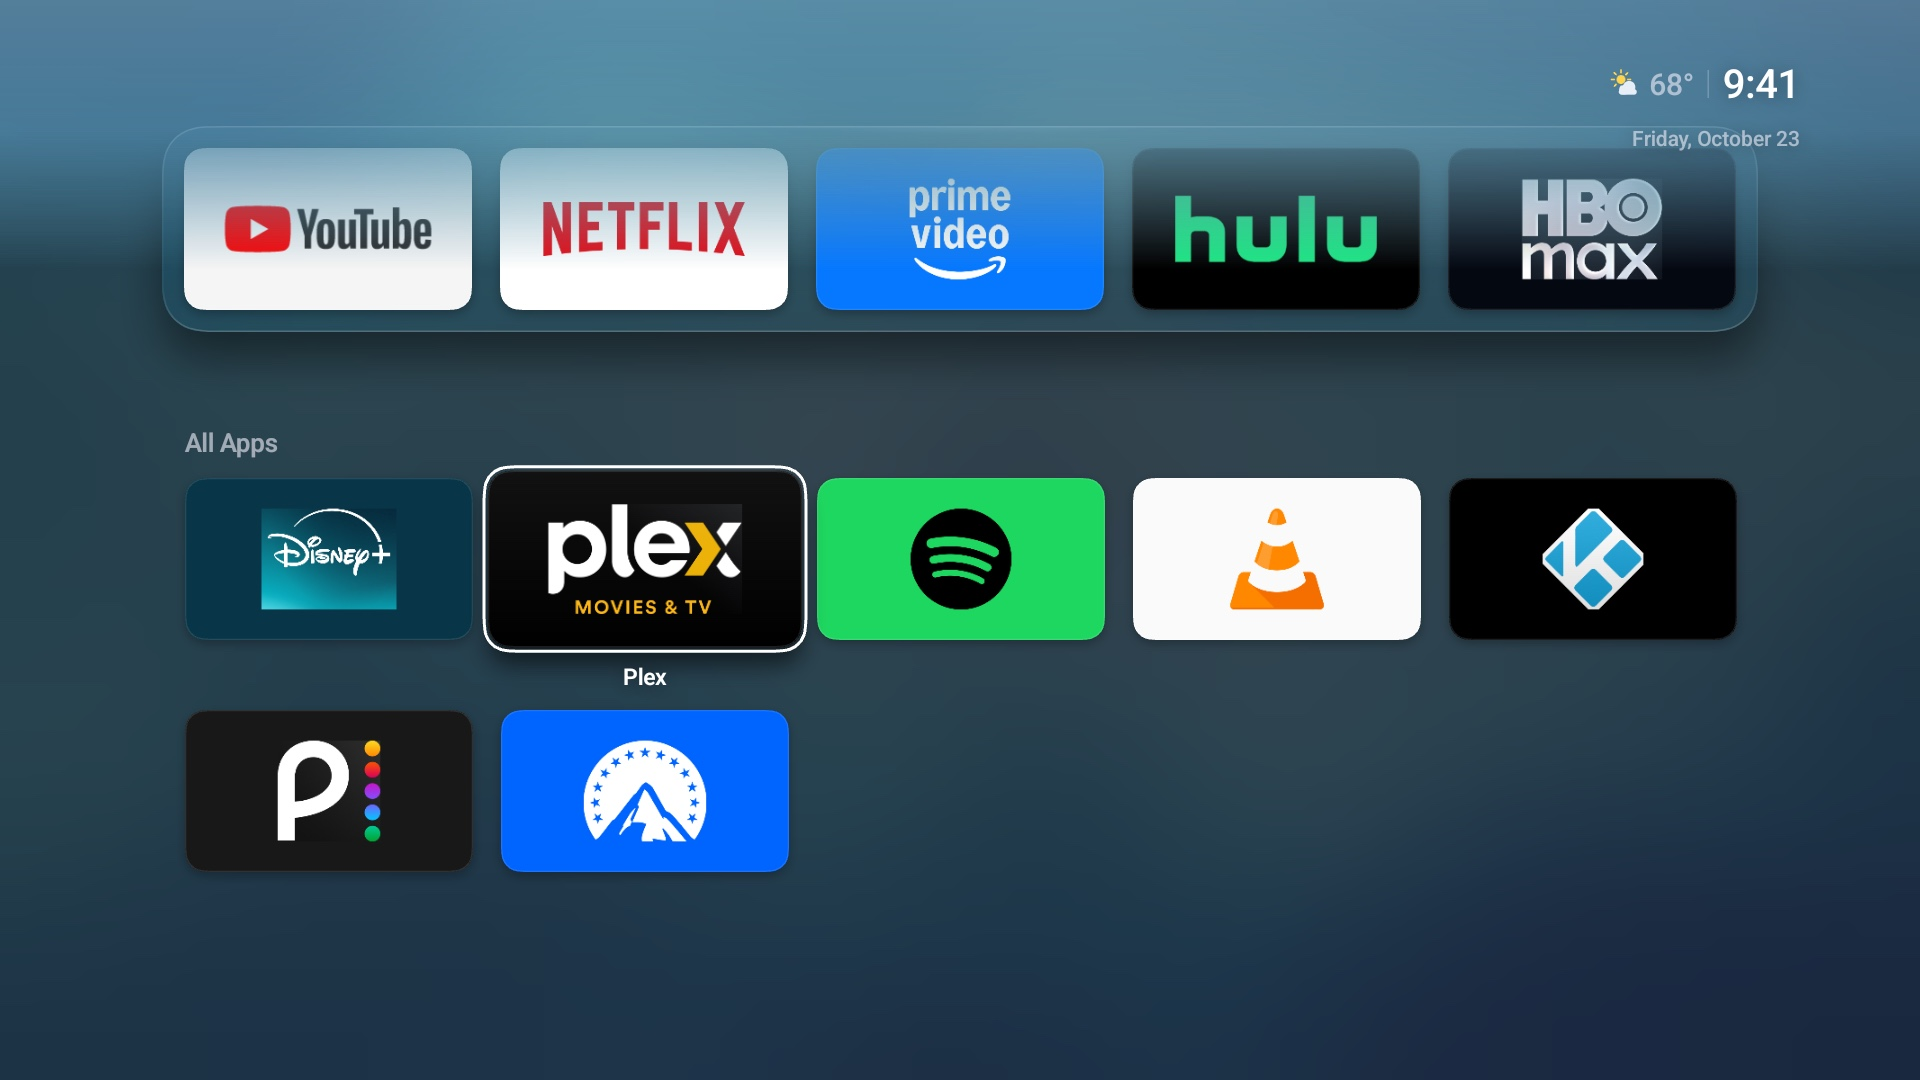
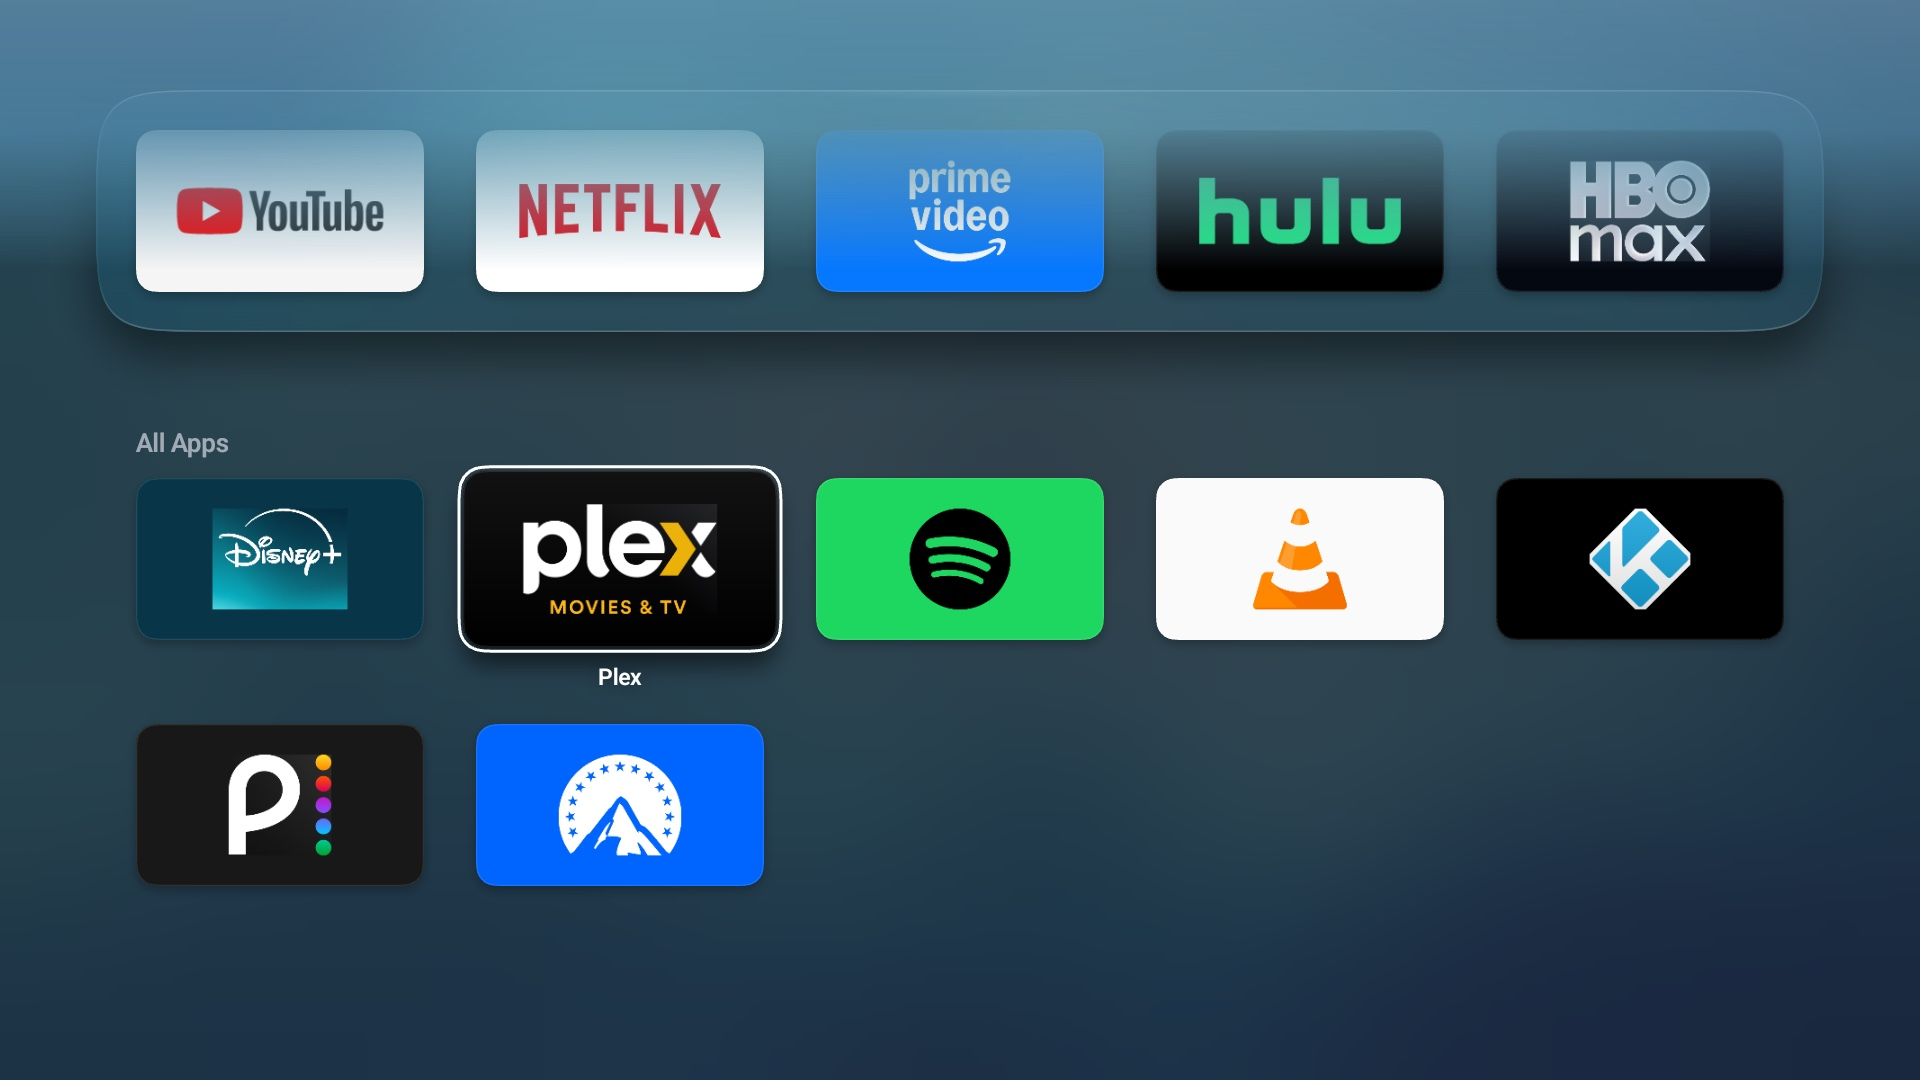
Refresh screenshots and design spec for the wider dock
Recaptured all sixteen native screenshots on the 1080p emulator with the
full-width, smoothed dock, aligned shelf and All Apps grid, and the clock
and weather hidden in All Apps. DESIGN.md now lists the new dock padding,
gaps, radius, corner smoothing and card layout.

diff --git a/docs/design/DESIGN.md b/docs/design/DESIGN.md
@@ -41,12 +41,12 @@ a browser. The arrow keys act as the D-pad, Enter as OK (hold it for the tile me
 | Safe area | 96 px left/right, 64 px top/bottom (TV overscan); content aligns to x = 185 px |
 | Clock | Top-right, 40 px, Inter Medium, −2% tracking, tabular figures, 95% white. Optional date below, 21 px, 62% white |
 | Weather | Left of the clock, separated by a 1.5 px hairline: a color glyph (34 px) and the temperature, 30 px Medium, 62% white |
-| Top Shelf | Heading at y = 262 px: **Top Picks for You**, 25 px SemiBold, then “across your apps” in 62% white. First card aligns to the floating dock's outer edge. Cards 376×211 px, radius 20, gap 28, with the episode/time line |
-| Dock | Glass (see Materials), centered, bottom edge at 81% of screen height. Padding 22 px; radius 42 px = tile radius + padding, so the curves are concentric |
+| Top Shelf | Heading at y = 262 px: **Top Picks for You**, 25 px SemiBold, then “across your apps” in 62% white. Cards span the dock's tile columns, so the first card aligns with the first tile: Standard 4 across (373×210 px), Compact 5, Large 3; radius 20, gap 52, with the episode/time line |
+| Dock | Glass (see Materials), full width between the 96 px overscan margins, bottom edge at 81% of screen height. Padding 40 px, tile gap 52 px, so five tiles fill it exactly; radius 60 px = tile radius + padding, so the curves are concentric. Its corners use fully smoothed (Figma 100%) squircles that ease in over 2× the radius |
 | Tiles | 16:9, radius 20 px. Medium 288×162 px (default, five across), Small 232×130 (six), Large 376×211 (four) |
 | Focus | A crisp white 3 px focus ring, with a 2.5 px gap and no glow or dark edge on apps and recommendation cards, plus scale 1.09 (cards 1.07) over 240 ms, deep soft shadow and a low-contrast, static top-light sheen. Focused tiles and cards add a softly eased 0.4% double-beat pulse every 3.4 s; it starts only after D-pad navigation. Home restores stable focus by app/content identity at rest, without a zoom replay or entry pulse. Focus springs are critically damped. Reduced motion and open menus pause it. The dock's specular highlight slides to sit above the focused tile |
 | Label | Focused tile only (default). 25 px SemiBold, 22 px under the dock |
-| Legibility | A dark vignette behind the clock and along the bottom, plus a soft band behind the shelf that strengthens on bright daytime scenes. During the All Apps scroll, a pre-blurred gradient sits above the moving dock and below the clock/date |
+| Legibility | A dark vignette behind the clock and along the bottom, plus a soft band behind the shelf that strengthens on bright daytime scenes. During the All Apps scroll, the clock, weather and date lift up and fade out (fade only with Reduced motion) and a pre-blurred gradient darkens the top edge above the moving dock |
 
 ## Screens
 
